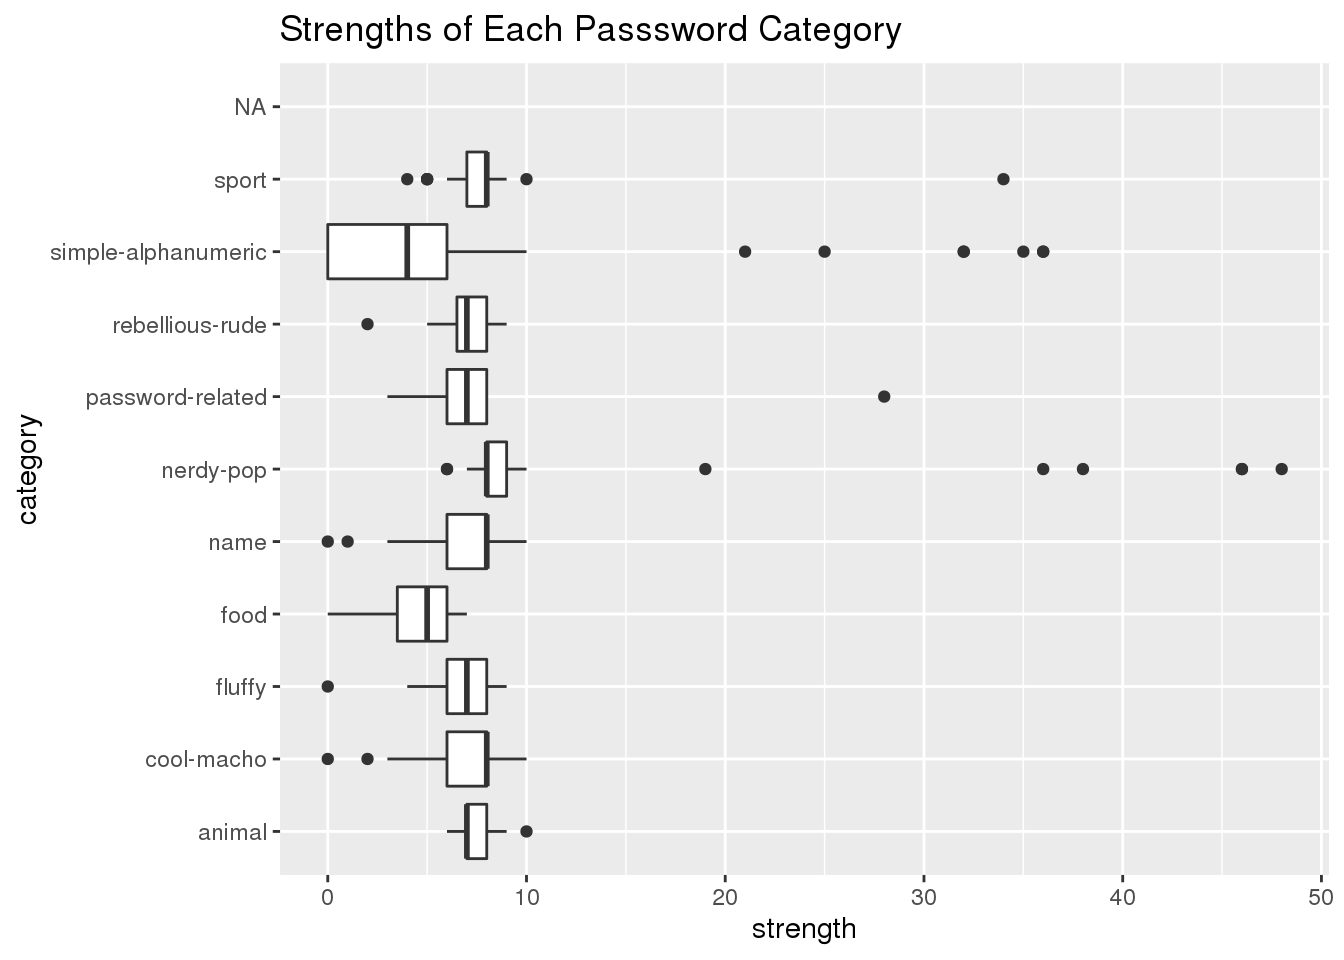
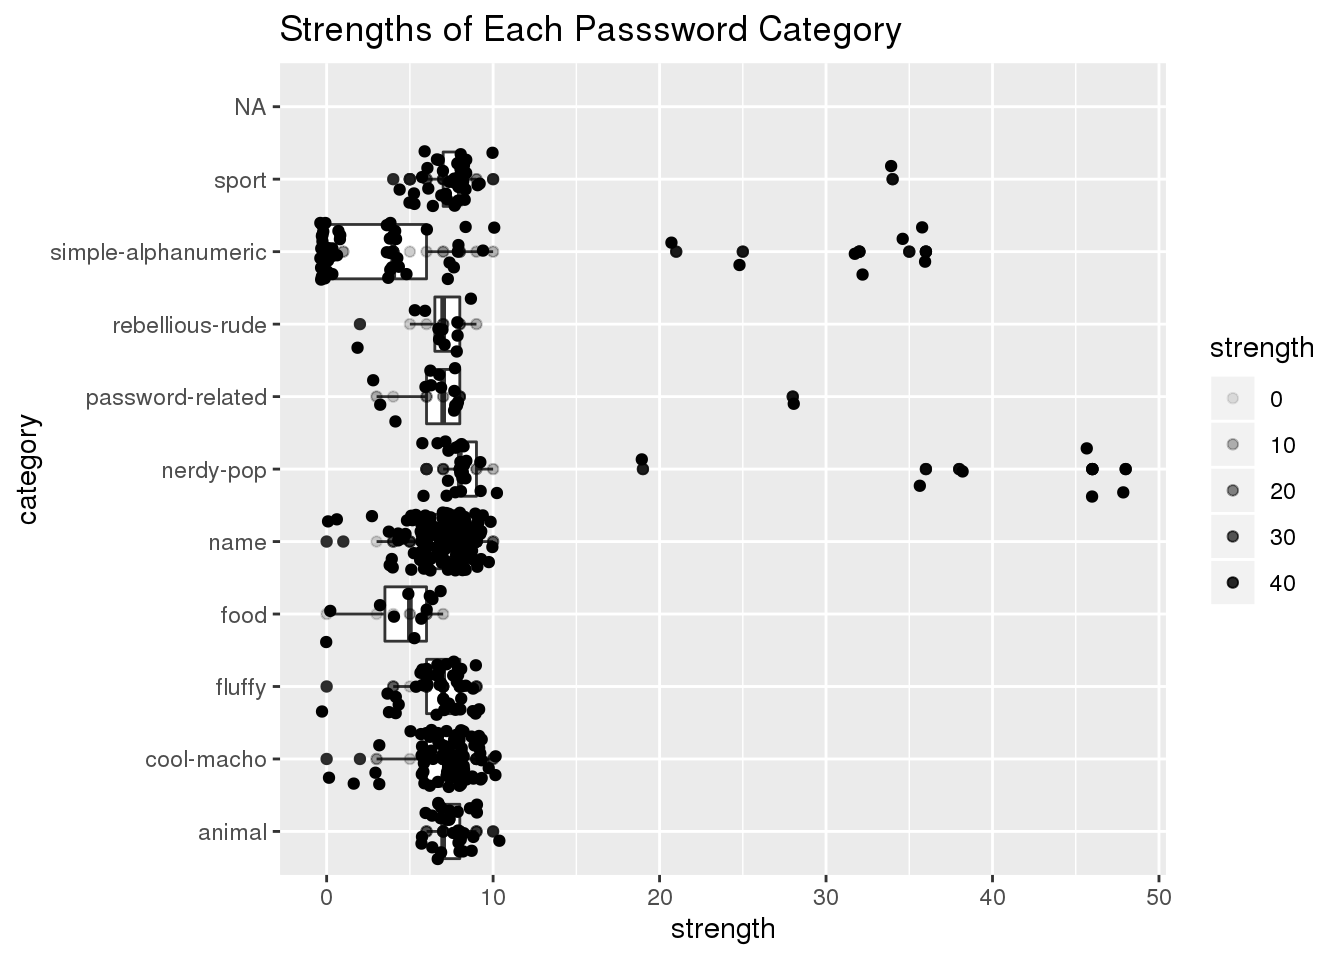
actual final

diff --git a/public/2020/12/07/carbon-footprint-of-food-groups/index.html b/public/2020/12/07/carbon-footprint-of-food-groups/index.html
@@ -62,7 +62,7 @@
 
   <article class="article">
     
-    <span class="article-duration">6 min read</span>
+    <span class="article-duration">5 min read</span>
     
 
     <h1 class="article-title">Carbon Footprint of Food Groups</h1>
@@ -140,7 +140,7 @@ suppressMessages(library(dplyr))</code></pre>
 ## 5 Argentina Fish                 4.36          6.96
 ## 6 Argentina Eggs                11.4          10.5</code></pre>
 <pre class="r"><code>p&lt;-ggplot(data=df, aes(x=food_category, y=consumption)) +
-  geom_bar(stat=&quot;identity&quot;) +
+  geom_boxplot() +
   ggtitle(&quot;Rate of Consumption by Category&quot;)
 
 p + coord_flip()</code></pre>
@@ -149,7 +149,7 @@ p + coord_flip()</code></pre>
 <div id="question-3how-much-co2-does-the-u.s.-create-in-total-each-year-how-much-is-created-by-each-food-group" class="section level1">
 <h1>QUESTION 3:How much co2 does the U.S. create in total each year? How much is created by each food group?</h1>
 <p>According to the data below, the United States creates 1718.86 kg/person/year of Carbon Dioxide through our food. Ethiopia has one of the lowest carbon footprints in this data, at about 241.92 kg/person/year, and that is because the country consumes many more plants than they do animals. The U.S. consumes lots of dairy products, which I completely expected. We also create lots of carbon dioxide through the production of beef. The numbers are incredibly high in this area. As a whole, we do not consume enough vegetables. This is probably why we have one of the highest obesity rates in the world.</p>
-<p>TOTAL U.S C02 EMISSION</p>
+<p>TOTAL U.S &amp; Ethiopia C02 EMISSION</p>
 <pre class="r"><code>dt &lt;- data.frame(readr::read_csv(&#39;https://raw.githubusercontent.com/rfordatascience/tidytuesday/master/data/2020/2020-02-18/food_consumption.csv&#39;))</code></pre>
 <pre><code>## Parsed with column specification:
 ## cols(
@@ -158,14 +158,15 @@ p + coord_flip()</code></pre>
 ##   consumption = col_double(),
 ##   co2_emmission = col_double()
 ## )</code></pre>
-<pre class="r"><code>america &lt;- filter(dt, country == &quot;USA&quot;) 
+<pre class="r"><code>america &lt;- filter(dt, country %in% c(&quot;USA&quot;,&quot;Ethiopia&quot;)) 
 group_by(america) %&gt;%
 group_by(country) %&gt;%
 summarize(total_co2 = sum(co2_emmission)) </code></pre>
-<pre><code>## # A tibble: 1 x 2
-##   country total_co2
-##   &lt;chr&gt;       &lt;dbl&gt;
-## 1 USA         1719.</code></pre>
+<pre><code>## # A tibble: 2 x 2
+##   country  total_co2
+##   &lt;chr&gt;        &lt;dbl&gt;
+## 1 Ethiopia      242.
+## 2 USA          1719.</code></pre>
 <pre class="r"><code>dt &lt;- data.frame(readr::read_csv(&#39;https://raw.githubusercontent.com/rfordatascience/tidytuesday/master/data/2020/2020-02-18/food_consumption.csv&#39;))</code></pre>
 <pre><code>## Parsed with column specification:
 ## cols(
@@ -174,32 +175,14 @@ summarize(total_co2 = sum(co2_emmission)) </code></pre>
 ##   consumption = col_double(),
 ##   co2_emmission = col_double()
 ## )</code></pre>
-<pre class="r"><code>america &lt;- filter(dt, country == &quot;USA&quot;) 
+<pre class="r"><code>america &lt;- filter(dt, country %in% c(&quot;USA&quot;,&quot;Ethiopia&quot;)) 
 group_by(america) %&gt;%
 group_by(country) %&gt;%
 summarize(total_co2 = sum(co2_emmission)) %&gt;%
-ggplot(aes(x = country, y = total_co2)) +
-    geom_point() +
-    ggtitle(&quot;USA Carbon Footprint&quot;) +
-    coord_flip()</code></pre>
+ggplot(aes(x = reorder(country, -total_co2), y = total_co2)) +
+    geom_bar(stat = &quot;identity&quot;) +
+    ggtitle(&quot;USA &amp; Ethiopia Carbon Footprints&quot;) </code></pre>
 <p><img src="/post/food_files/figure-html/unnamed-chunk-6-1.png" width="672" /></p>
-<pre class="r"><code>dt &lt;- data.frame(readr::read_csv(&#39;https://raw.githubusercontent.com/rfordatascience/tidytuesday/master/data/2020/2020-02-18/food_consumption.csv&#39;))</code></pre>
-<pre><code>## Parsed with column specification:
-## cols(
-##   country = col_character(),
-##   food_category = col_character(),
-##   consumption = col_double(),
-##   co2_emmission = col_double()
-## )</code></pre>
-<pre class="r"><code>area &lt;- filter(dt, country == &quot;Ethiopia&quot;) 
-group_by(area) %&gt;%
-group_by(country) %&gt;%
-summarize(total_co2 = sum(co2_emmission)) %&gt;%
-ggplot(aes(x = country, y = total_co2)) +
-    geom_point() +
-    ggtitle(&quot;Ethiopia Carbon Footprint&quot;) +
-    coord_flip()</code></pre>
-<p><img src="/post/food_files/figure-html/unnamed-chunk-7-1.png" width="672" /></p>
 <pre class="r"><code>dt &lt;- data.frame(readr::read_csv(&#39;https://raw.githubusercontent.com/rfordatascience/tidytuesday/master/data/2020/2020-02-18/food_consumption.csv&#39;))</code></pre>
 <pre><code>## Parsed with column specification:
 ## cols(
@@ -215,7 +198,7 @@ ggplot(aes(x = food_category, y = co2_emmission)) +
     geom_point() +
     ggtitle(&quot;USA Carbon Footprint By Category&quot;) +
     coord_flip()</code></pre>
-<p><img src="/post/food_files/figure-html/unnamed-chunk-8-1.png" width="672" /></p>
+<p><img src="/post/food_files/figure-html/unnamed-chunk-7-1.png" width="672" /></p>
 <p><strong>CONCLUSION</strong></p>
 <p>To conclude this post, from what I have found that producing vegetables is better for the environment than producing animal products. Therefore, it is better for the environment to eat more non-animal versus animal products. It is also much better for human health to consume more vegetables. So, we can’t go wrong with eating more vegetables and less meat.</p>
 </div>

diff --git a/content/post/food.html b/content/post/food.html
@@ -70,7 +70,7 @@ suppressMessages(library(dplyr))</code></pre>
 ## 5 Argentina Fish                 4.36          6.96
 ## 6 Argentina Eggs                11.4          10.5</code></pre>
 <pre class="r"><code>p&lt;-ggplot(data=df, aes(x=food_category, y=consumption)) +
-  geom_bar(stat=&quot;identity&quot;) +
+  geom_boxplot() +
   ggtitle(&quot;Rate of Consumption by Category&quot;)
 
 p + coord_flip()</code></pre>
@@ -79,7 +79,7 @@ p + coord_flip()</code></pre>
 <div id="question-3how-much-co2-does-the-u.s.-create-in-total-each-year-how-much-is-created-by-each-food-group" class="section level1">
 <h1>QUESTION 3:How much co2 does the U.S. create in total each year? How much is created by each food group?</h1>
 <p>According to the data below, the United States creates 1718.86 kg/person/year of Carbon Dioxide through our food. Ethiopia has one of the lowest carbon footprints in this data, at about 241.92 kg/person/year, and that is because the country consumes many more plants than they do animals. The U.S. consumes lots of dairy products, which I completely expected. We also create lots of carbon dioxide through the production of beef. The numbers are incredibly high in this area. As a whole, we do not consume enough vegetables. This is probably why we have one of the highest obesity rates in the world.</p>
-<p>TOTAL U.S C02 EMISSION</p>
+<p>TOTAL U.S &amp; Ethiopia C02 EMISSION</p>
 <pre class="r"><code>dt &lt;- data.frame(readr::read_csv(&#39;https://raw.githubusercontent.com/rfordatascience/tidytuesday/master/data/2020/2020-02-18/food_consumption.csv&#39;))</code></pre>
 <pre><code>## Parsed with column specification:
 ## cols(
@@ -88,14 +88,15 @@ p + coord_flip()</code></pre>
 ##   consumption = col_double(),
 ##   co2_emmission = col_double()
 ## )</code></pre>
-<pre class="r"><code>america &lt;- filter(dt, country == &quot;USA&quot;) 
+<pre class="r"><code>america &lt;- filter(dt, country %in% c(&quot;USA&quot;,&quot;Ethiopia&quot;)) 
 group_by(america) %&gt;%
 group_by(country) %&gt;%
 summarize(total_co2 = sum(co2_emmission)) </code></pre>
-<pre><code>## # A tibble: 1 x 2
-##   country total_co2
-##   &lt;chr&gt;       &lt;dbl&gt;
-## 1 USA         1719.</code></pre>
+<pre><code>## # A tibble: 2 x 2
+##   country  total_co2
+##   &lt;chr&gt;        &lt;dbl&gt;
+## 1 Ethiopia      242.
+## 2 USA          1719.</code></pre>
 <pre class="r"><code>dt &lt;- data.frame(readr::read_csv(&#39;https://raw.githubusercontent.com/rfordatascience/tidytuesday/master/data/2020/2020-02-18/food_consumption.csv&#39;))</code></pre>
 <pre><code>## Parsed with column specification:
 ## cols(
@@ -104,32 +105,14 @@ summarize(total_co2 = sum(co2_emmission)) </code></pre>
 ##   consumption = col_double(),
 ##   co2_emmission = col_double()
 ## )</code></pre>
-<pre class="r"><code>america &lt;- filter(dt, country == &quot;USA&quot;) 
+<pre class="r"><code>america &lt;- filter(dt, country %in% c(&quot;USA&quot;,&quot;Ethiopia&quot;)) 
 group_by(america) %&gt;%
 group_by(country) %&gt;%
 summarize(total_co2 = sum(co2_emmission)) %&gt;%
-ggplot(aes(x = country, y = total_co2)) +
-    geom_point() +
-    ggtitle(&quot;USA Carbon Footprint&quot;) +
-    coord_flip()</code></pre>
+ggplot(aes(x = reorder(country, -total_co2), y = total_co2)) +
+    geom_bar(stat = &quot;identity&quot;) +
+    ggtitle(&quot;USA &amp; Ethiopia Carbon Footprints&quot;) </code></pre>
 <p><img src="/post/food_files/figure-html/unnamed-chunk-6-1.png" width="672" /></p>
-<pre class="r"><code>dt &lt;- data.frame(readr::read_csv(&#39;https://raw.githubusercontent.com/rfordatascience/tidytuesday/master/data/2020/2020-02-18/food_consumption.csv&#39;))</code></pre>
-<pre><code>## Parsed with column specification:
-## cols(
-##   country = col_character(),
-##   food_category = col_character(),
-##   consumption = col_double(),
-##   co2_emmission = col_double()
-## )</code></pre>
-<pre class="r"><code>area &lt;- filter(dt, country == &quot;Ethiopia&quot;) 
-group_by(area) %&gt;%
-group_by(country) %&gt;%
-summarize(total_co2 = sum(co2_emmission)) %&gt;%
-ggplot(aes(x = country, y = total_co2)) +
-    geom_point() +
-    ggtitle(&quot;Ethiopia Carbon Footprint&quot;) +
-    coord_flip()</code></pre>
-<p><img src="/post/food_files/figure-html/unnamed-chunk-7-1.png" width="672" /></p>
 <pre class="r"><code>dt &lt;- data.frame(readr::read_csv(&#39;https://raw.githubusercontent.com/rfordatascience/tidytuesday/master/data/2020/2020-02-18/food_consumption.csv&#39;))</code></pre>
 <pre><code>## Parsed with column specification:
 ## cols(
@@ -145,7 +128,7 @@ ggplot(aes(x = food_category, y = co2_emmission)) +
     geom_point() +
     ggtitle(&quot;USA Carbon Footprint By Category&quot;) +
     coord_flip()</code></pre>
-<p><img src="/post/food_files/figure-html/unnamed-chunk-8-1.png" width="672" /></p>
+<p><img src="/post/food_files/figure-html/unnamed-chunk-7-1.png" width="672" /></p>
 <p><strong>CONCLUSION</strong></p>
 <p>To conclude this post, from what I have found that producing vegetables is better for the environment than producing animal products. Therefore, it is better for the environment to eat more non-animal versus animal products. It is also much better for human health to consume more vegetables. So, we can’t go wrong with eating more vegetables and less meat.</p>
 </div>

diff --git a/public/2020/12/07/passwords/index.html b/public/2020/12/07/passwords/index.html
@@ -127,9 +127,14 @@ suppressMessages(library(dplyr))</code></pre>
     group_by(category) %&gt;%
     ggplot(aes(x = category, y = strength)) +
     geom_boxplot() +
+    geom_point(aes(alpha = strength)) +
+    geom_jitter() +
     ggtitle(&quot;Strengths of Each Passsword Category&quot;) +
     coord_flip()</code></pre>
 <pre><code>## Warning: Removed 7 rows containing non-finite values (stat_boxplot).</code></pre>
+<pre><code>## Warning: Removed 7 rows containing missing values (geom_point).
+
+## Warning: Removed 7 rows containing missing values (geom_point).</code></pre>
 <p><img src="/post/Passwords_files/figure-html/unnamed-chunk-3-1.png" width="672" /></p>
 </div>
 <div id="question-2-how-does-the-strength-correlate-with-how-long-it-took-to-crack-offline" class="section level1">
@@ -166,8 +171,11 @@ suppressMessages(library(dplyr))</code></pre>
 ## 6        4         8</code></pre>
 <pre class="r"><code>ggplot(data=df, aes(x=strength, y=offline_crack_sec, group=1)) +
    geom_hex() +
+    geom_smooth() +
    ggtitle(&quot;How Long Did it Take to Crack Passwords Based on Strength&quot;)</code></pre>
 <pre><code>## Warning: Removed 7 rows containing non-finite values (stat_binhex).</code></pre>
+<pre><code>## `geom_smooth()` using method = &#39;loess&#39; and formula &#39;y ~ x&#39;</code></pre>
+<pre><code>## Warning: Removed 7 rows containing non-finite values (stat_smooth).</code></pre>
 <p><img src="/post/Passwords_files/figure-html/unnamed-chunk-4-1.png" width="672" /></p>
 </div>
 <div id="question-3-which-category-had-the-highest-average-rank" class="section level1">
@@ -189,8 +197,8 @@ suppressMessages(library(dplyr))</code></pre>
 ## )</code></pre>
 <pre class="r"><code>df %&gt;%
     group_by(category) %&gt;%
-    summarize(mean_rank = mean(rank)) %&gt;%
-    ggplot(aes(x = category, y = mean_rank)) +
+    summarize(mean_rank = mean(rank), mean_time = mean(offline_crack_sec)) %&gt;%
+    ggplot(aes(x = category, y = mean_rank, size = mean_time)) +
     geom_point() +
     ggtitle(&quot;The Average Rank of Passwords&quot;) +
     coord_flip()</code></pre>

diff --git a/content/post/Passwords.html b/content/post/Passwords.html
@@ -57,9 +57,14 @@ suppressMessages(library(dplyr))</code></pre>
     group_by(category) %&gt;%
     ggplot(aes(x = category, y = strength)) +
     geom_boxplot() +
+    geom_point(aes(alpha = strength)) +
+    geom_jitter() +
     ggtitle(&quot;Strengths of Each Passsword Category&quot;) +
     coord_flip()</code></pre>
 <pre><code>## Warning: Removed 7 rows containing non-finite values (stat_boxplot).</code></pre>
+<pre><code>## Warning: Removed 7 rows containing missing values (geom_point).
+
+## Warning: Removed 7 rows containing missing values (geom_point).</code></pre>
 <p><img src="/post/Passwords_files/figure-html/unnamed-chunk-3-1.png" width="672" /></p>
 </div>
 <div id="question-2-how-does-the-strength-correlate-with-how-long-it-took-to-crack-offline" class="section level1">
@@ -96,8 +101,11 @@ suppressMessages(library(dplyr))</code></pre>
 ## 6        4         8</code></pre>
 <pre class="r"><code>ggplot(data=df, aes(x=strength, y=offline_crack_sec, group=1)) +
    geom_hex() +
+    geom_smooth() +
    ggtitle(&quot;How Long Did it Take to Crack Passwords Based on Strength&quot;)</code></pre>
 <pre><code>## Warning: Removed 7 rows containing non-finite values (stat_binhex).</code></pre>
+<pre><code>## `geom_smooth()` using method = &#39;loess&#39; and formula &#39;y ~ x&#39;</code></pre>
+<pre><code>## Warning: Removed 7 rows containing non-finite values (stat_smooth).</code></pre>
 <p><img src="/post/Passwords_files/figure-html/unnamed-chunk-4-1.png" width="672" /></p>
 </div>
 <div id="question-3-which-category-had-the-highest-average-rank" class="section level1">
@@ -119,8 +127,8 @@ suppressMessages(library(dplyr))</code></pre>
 ## )</code></pre>
 <pre class="r"><code>df %&gt;%
     group_by(category) %&gt;%
-    summarize(mean_rank = mean(rank)) %&gt;%
-    ggplot(aes(x = category, y = mean_rank)) +
+    summarize(mean_rank = mean(rank), mean_time = mean(offline_crack_sec)) %&gt;%
+    ggplot(aes(x = category, y = mean_rank, size = mean_time)) +
     geom_point() +
     ggtitle(&quot;The Average Rank of Passwords&quot;) +
     coord_flip()</code></pre>
